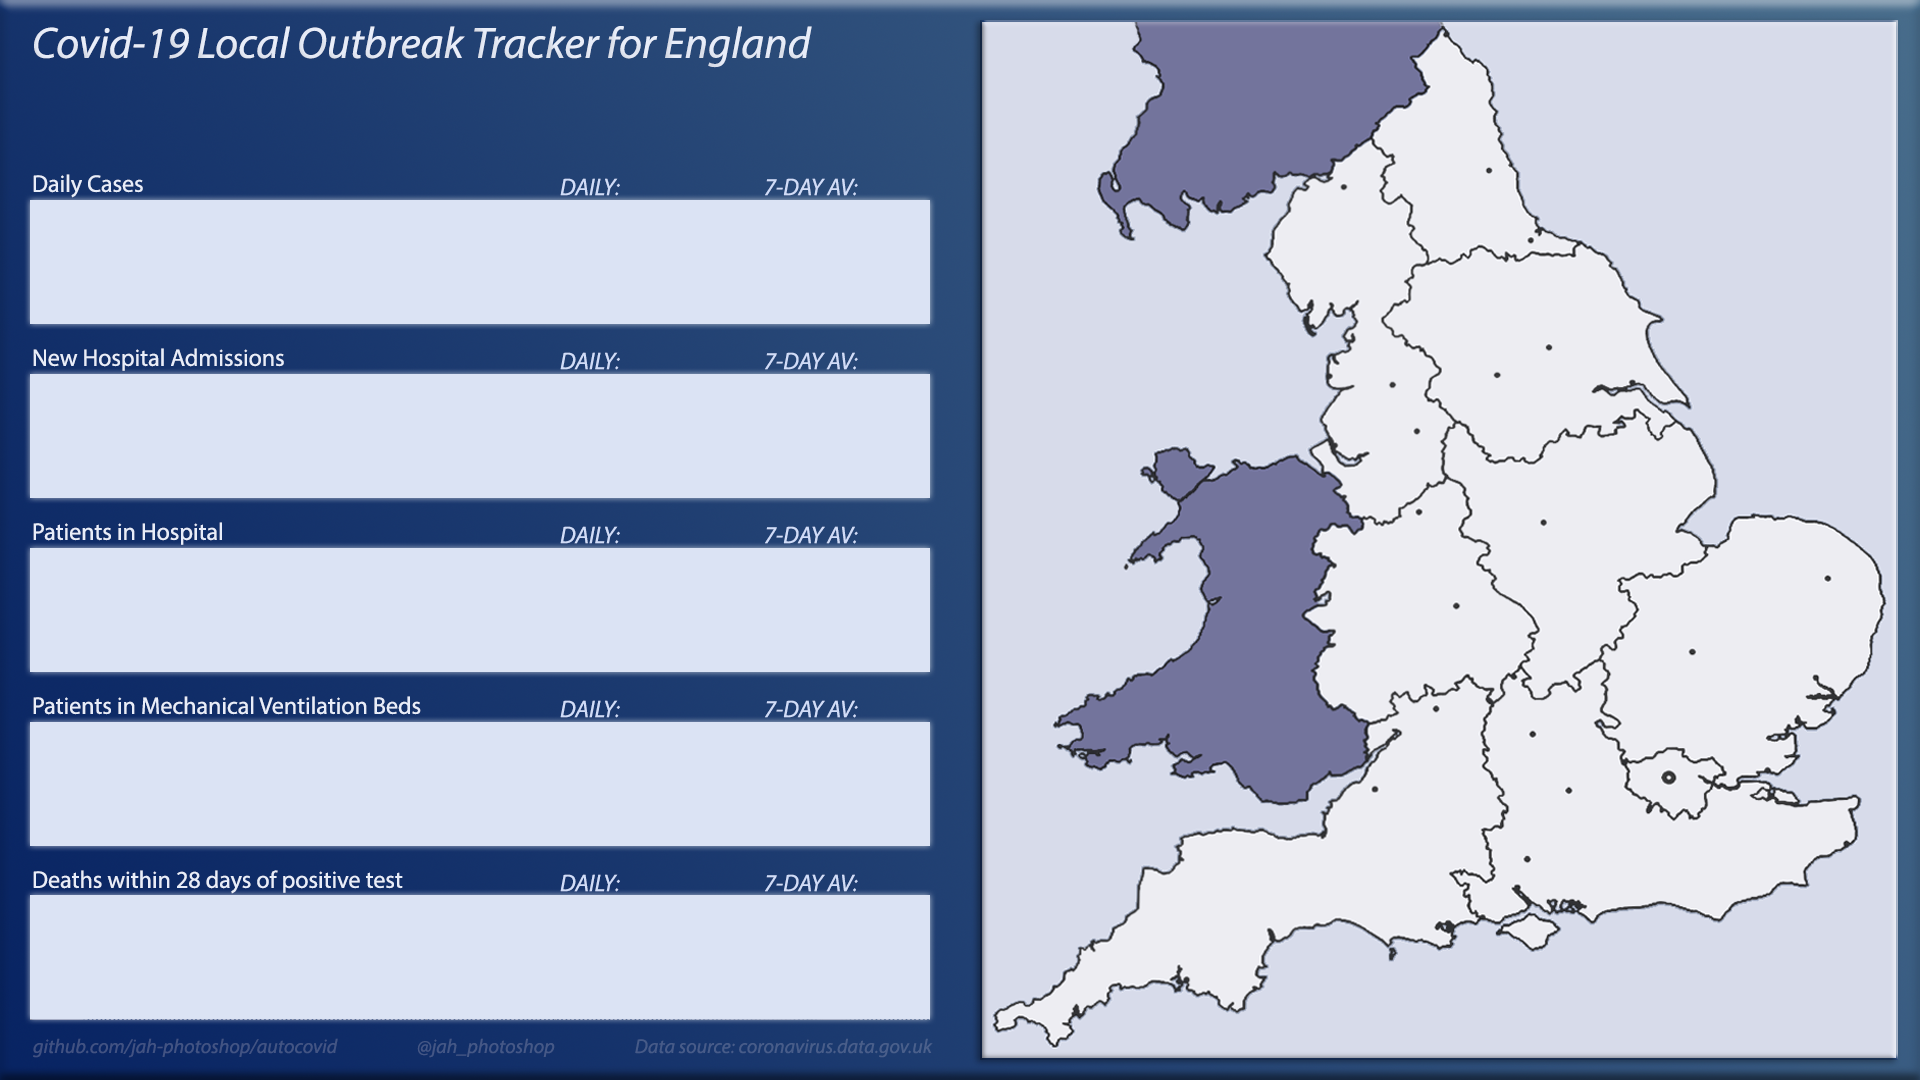
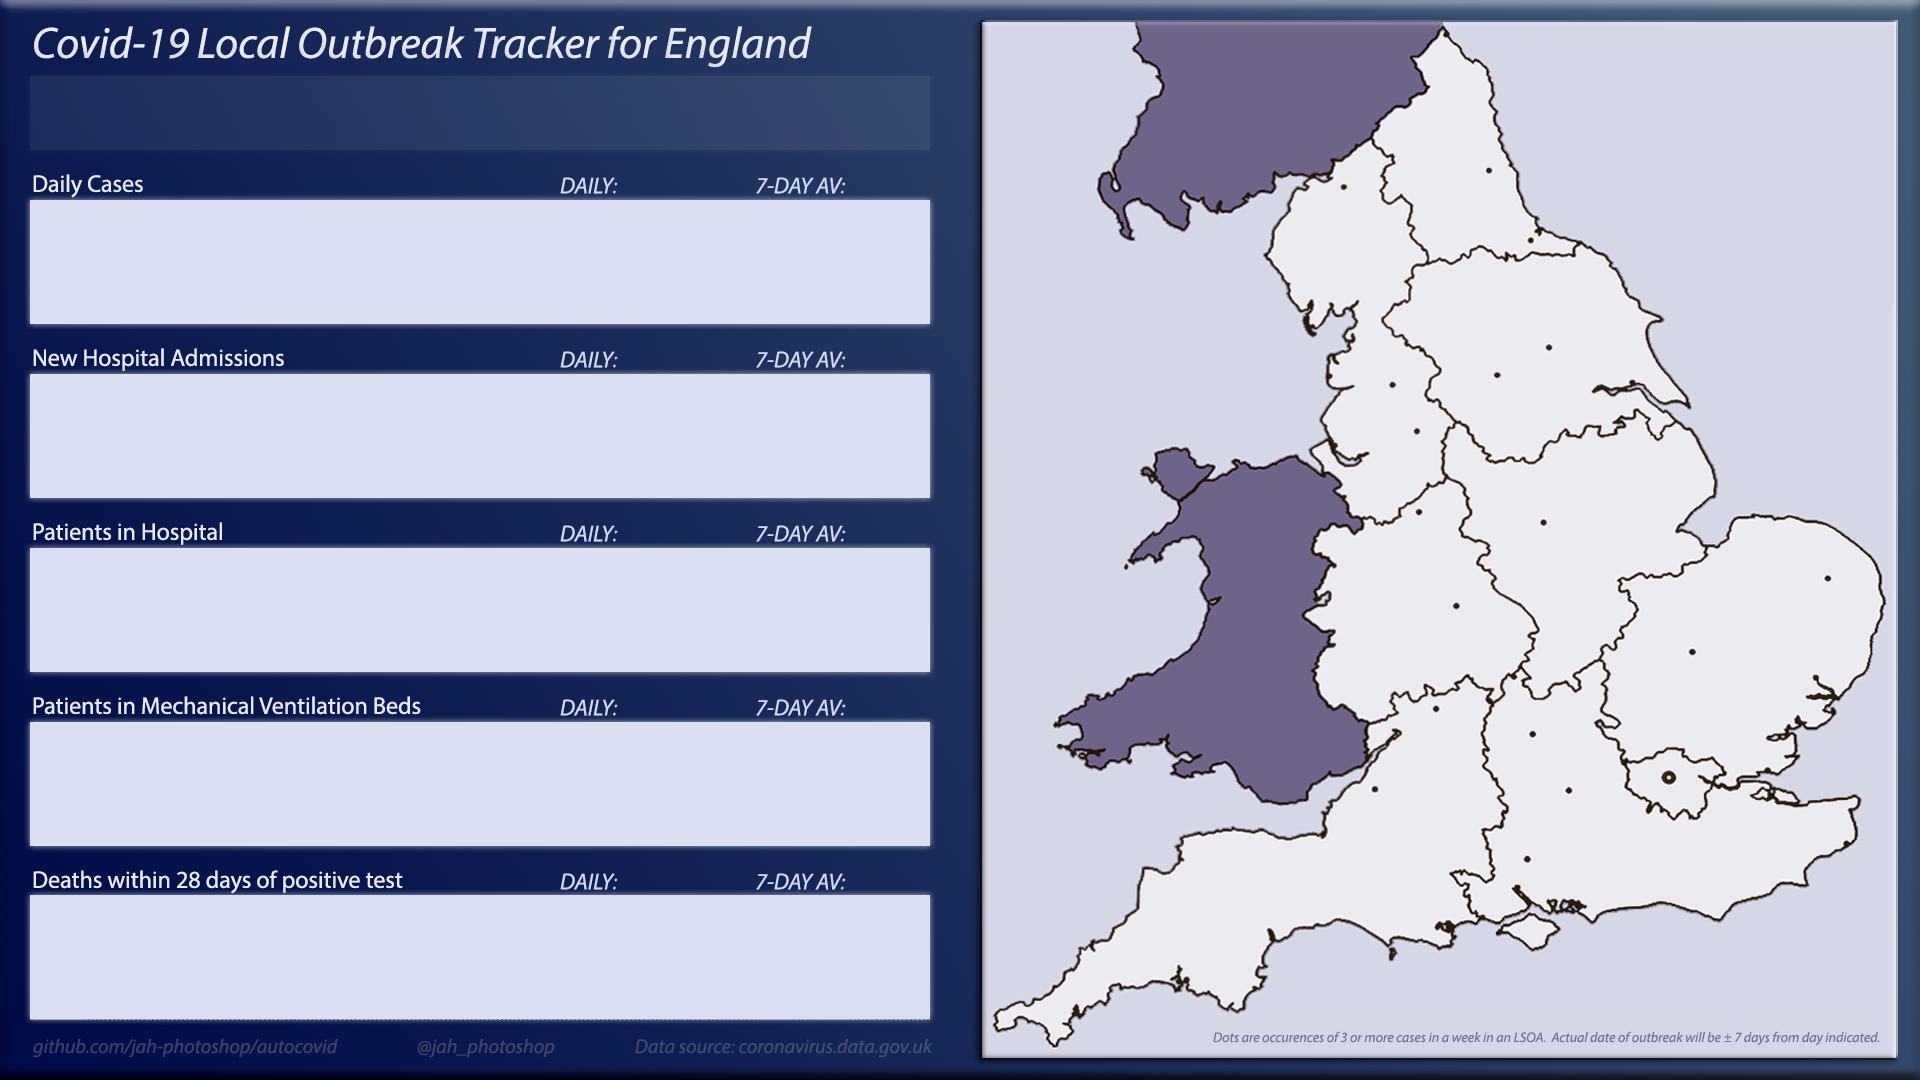
Added localplot, regional data

diff --git a/data_plot.py b/data_plot.py
@@ -39,6 +39,7 @@ print("")
 
 #Some parameters that may want to be tweaked...
 debug = False            # Set to True to print extended debug information whilst processing
+plot_region_stats = True # Set to True to include regional statistics legend on map
 
 surpress_days = timedelta(days=3)
 plt.rcParams.update({'font.size': 26})
@@ -74,12 +75,13 @@ def annotate_picture(filename,list_of_annotations):
     annotate_string = "convert %s -gravity SouthEast -pointsize 23 " % filename
     for annotation in list_of_annotations:
         cs = "'#EEEE'"
-        if(annotation[5]): cs = "'#CCCC'"
+        if(annotation[5]): cs = "'#DDDD'"
+        if(annotation[6]): cs = "'#888C'"
         if(annotation[3]):  #Right justified for numerical entries
-            sub_string =  " -gravity SouthEast -pointsize %d -stroke '#000C' -strokewidth 2 -annotate +%d+%d '%s' " % (annotation[4],annotation[0],annotation[1],annotation[2])
+            sub_string =  " -gravity SouthEast -font FreeMono-Bold -pointsize %d -stroke '#222C' -strokewidth 1 -annotate +%d+%d '%s' " % (annotation[4],annotation[0],annotation[1],annotation[2])
             sub_string += "-stroke none -fill %s -annotate +%d+%d '%s' " % (cs,annotation[0],annotation[1],annotation[2])
         else:
-            sub_string =  " -gravity SouthWest -pointsize %d -stroke '#000C' -strokewidth 2 -annotate +%d+%d '%s' " % (annotation[4],annotation[0],annotation[1],annotation[2])
+            sub_string =  " -gravity SouthWest -font Lato-Bold -pointsize %d -stroke '#000C' -strokewidth 2 -annotate +%d+%d '%s' " % (annotation[4],annotation[0],annotation[1],annotation[2])
             sub_string += "-stroke none -fill %s -annotate +%d+%d '%s' " % (cs,annotation[0],annotation[1],annotation[2])           
         annotate_string += sub_string
     annotate_string += filename
@@ -135,7 +137,9 @@ shade_regions_r     = input("Shade regions by case rate [default: yes]      : ")
 shade_regions = False
 if shade_regions_r.startswith('y'): shade_regions = True
 
+
 regions = ['northwest','northeast','yorkshire','westmidlands','eastmidlands','east','southwest','southeast','london']
+#regions_format = ['North West','North East','Yorkshire and Humberi','West Midlands','East Midlands','East of England','South West','South East','London']
 region_rates = []
 region_dates = []
 if(shade_regions):
@@ -151,7 +155,7 @@ if(shade_regions):
         region_rates.append(region_rate)
         print ("%s: Max: %f" % (region,max(region_rate)))
     
-start_date_str   =      input("Start date for output [default: 2020-03-01]    : ") or "2020-03-01"
+start_date_str   =      input("Start date for output [default: 2020-03-04]    : ") or "2020-03-04"
 start_date = datetime.strptime(start_date_str,"%Y-%m-%d")
 if not os.path.isfile(background_filename): fail("Background image file not found (%s)" % (background_filename))
 
@@ -221,7 +225,7 @@ for day in range(no_days):
                 post_cases.append(cases[count])
                 post_dates.append(entry)
                 post_avs.append(avs[count])
-        plt.axis([start_date-timedelta(hours=36),end_date-surpress_days-timedelta(hours=12),0,c_max*1.02])
+        plt.axis([start_date-timedelta(hours=36),end_date-surpress_days-timedelta(hours=30),0,c_max*1.02])
         ax=plt.gca()
         pad_w= -10 - ( len("%d" % c_max) * 14)
         ax.tick_params(axis="y", direction="in", pad=pad_w)
@@ -235,8 +239,8 @@ for day in range(no_days):
         plt.bar(post_dates,post_cases,width=0.6,color=i_bar_col,edgecolor=i_edge_col,linewidth=0.72)
         plt.plot(post_dates,post_avs,color=i_line_col,linewidth=6)
         plt.axvline(x=c_day-timedelta(hours=16), color="#552255", ls=':', lw=3)
-        annotation_list.append([1220,880 - (c_c * 174),"%d" % int(pre_cases[0]),True,23,False])
-        annotation_list.append([990,880 - (c_c * 174),"%d" % int(pre_avs[0]),True,23,False])        
+        annotation_list.append([1220,882 - (c_c * 174),"%d" % int(pre_cases[0]),True,24,False,False])
+        annotation_list.append([990,882 - (c_c * 174),"%d" % int(pre_avs[0]),True,24,False,False])        
         ofn = output_path + os.path.sep + "temp" + os.path.sep + chart + ".png"
         ofn_list.append(ofn)
         plt.savefig(ofn, bbox_inches='tight',transparent=True)
@@ -250,14 +254,15 @@ for day in range(no_days):
     for count,figfn in enumerate(ofn_list):
         os.system('composite -geometry +30+%d %s %s %s' % (200 + (count * 174),figfn,frame_name,frame_name))
     print("Annotating images")
-    annotation_list.append([30,940,c_day.strftime("%a %d %b"),False,48,False])
+    x_day = c_day - timedelta(days=1)
+    annotation_list.append([34,940,x_day.strftime("%a %d %b"),False,48,False,False])
     if(annotate_events):
         draw_event = False
         date_string = ""
         e_string = ""
         fade = False
         for count,edate in enumerate(event_dates):
-            date_delta = c_day - edate
+            date_delta = x_day - edate
             if(date_delta.days >= 0 and date_delta.days < 3):
                 if(date_delta.days > 0):
                     fade = True
@@ -265,23 +270,30 @@ for day in range(no_days):
                 date_string = edate.strftime("%d %b")
                 e_string = event_strings[count]
         if(draw_event):
-            annotation_list.append([330,976,date_string,False,18,fade])
-            annotation_list.append([330,940,e_string,False,32,fade])
+            annotation_list.append([340,976,date_string,False,18,fade,False])
+            annotation_list.append([340,940,e_string,False,32,fade,False])
         
     annotate_picture(frame_name,annotation_list)
     if(shade_regions):
         print("Shading regional data")
+        region_annotations = []
+        if(plot_region_stats):
+            os.system('composite -geometry +1668+30 regions/backlayer.png %s %s' % (frame_name,frame_name))
+
         for count,region in enumerate(regions): 
             rate = 0
-            if c_day in region_dates[count]:
-                date_index = region_dates[count].index(c_day)
-#            print("Date index:%d" % (date_index))
-#            print(region_rates[count])
-#            print(len(region_rates[count]))
-#            print(region_dates)
-#            print(len(region_dates))
+            if x_day in region_dates[count]:
+                date_index = region_dates[count].index(x_day)
                 rate = region_rates[count][date_index]
+                if rate is None: rate = 0
+                region_annotations.append([38,982 - (count * 24),"%3.1f" % rate,True,20,False,True])
             if(rate > 100):rate=100
             if(rate < 0): rate = 0
-            region_filename="regions" + os.path.sep + region + ".png"
+            reg_sep = ""
+            if (plot_region_stats): reg_sep = "-e"
+            region_filename="regions" + os.path.sep + region + reg_sep + ".png"
             os.system('composite -dissolve %f -geometry +985+26 %s %s %s' % (rate,region_filename,frame_name,frame_name))
+        if(plot_region_stats):
+            os.system('composite -geometry +1668+30 regions/overlay.png %s %s' % (frame_name,frame_name))
+            print("Annotating regional data")
+            annotate_picture(frame_name,region_annotations)

diff --git a/localplot.py b/localplot.py
@@ -1,0 +1,135 @@
+#!/usr/bin/env python3
+# -*- coding: utf-8 -*-
+"""
+Heirarchical plot for local Covid data - England
+
+Created on Sun Oct  4 14:16:24 2020
+
+@author: jah-photoshop
+"""
+
+print("Covid Local Data Plotter - version 1.0   -   @jah-photoshop Oct 2020")
+print("")
+
+import os,csv, numpy as np,geopandas as gpd,pandas as pd,matplotlib.pyplot as plt, random
+from datetime import datetime, timedelta
+
+debug = False
+data_path = "data"
+map_filename = "zip://" + data_path + os.path.sep + "Middle_Layer_Super_Output_Areas__December_2011__Boundaries_EW_BSC-shp.zip"
+msoa_filename = data_path + os.path.sep + "MSOAs_latest.csv"
+cases_filename = data_path + os.path.sep + "coronavirus-cases_latest.csv"
+
+plt.rcParams['axes.facecolor']='#121240'
+
+#Yorkshire
+frame_margins = [340000,550000,410000,520000]
+plot_wales=False
+label_x=525000
+label_y=510000
+l_width=1.2
+
+#England
+frame_margins = [133000,658000,10600,655000]
+plot_wales=True
+label_x=550000
+label_y=576000
+l_width=0.6
+
+#Load map data for England [and Wales] from shape file
+print("Loading map data from " + map_filename)
+england=gpd.read_file(map_filename,rows=6791)
+wales=gpd.read_file(map_filename,rows=slice(6792,7199))
+msoa_names = england.MSOA11CD.to_list()
+
+#Load MSOA weekly case data from CSV file
+print("Loading MSOA data from " + msoa_filename)
+with open(msoa_filename) as csv_file: msoa_data = [row for row in csv.reader(csv_file, delimiter=',')][1:-1]
+
+#Load daily case data from CSV file
+print("Loading cases data from " + cases_filename)
+with open(cases_filename) as csv_file: cases_data = [row for row in csv.reader(csv_file, delimiter=',')][1:-1]
+area_codes=list(set([entry[1] for entry in cases_data]))
+start_date = datetime(2020, 1, 30)
+end_date = datetime.strptime(cases_data[0][3],"%Y-%m-%d")
+number_of_days=(end_date-start_date).days + 1
+area_codes_index = [e[1] for e in cases_data]
+area_rates=[]
+
+#Calculate the case rate, for each day, for each area
+print("Calculating area data")
+for area_code in area_codes:
+    area_cases = [0] * number_of_days
+    start_index = area_codes_index.index(area_code)
+    area_pop = float(cases_data[start_index][5]) / float(cases_data[start_index][6])
+    local_data = [[(datetime.strptime(entry[3],"%Y-%m-%d")-start_date).days,int(entry[4])] for entry in cases_data  if entry[1]==area_code ]
+    for line in local_data: area_cases[line[0]]=line[1]  
+    area_rate = [( sum(area_cases[max(0,i-6):i+1]) / area_pop) for i in range(number_of_days)]
+    if(debug):print("Area %s  Pop %f  Max rate %f" % (area_code,area_pop,max(area_rate)))
+    area_rates.append(area_rate)
+print("Cross-referencing area data")
+ltla_names = [msoa_data[i][4] for i in range(len(msoa_names))]
+ltla_indices = []
+for name in ltla_names:
+    if name in area_codes_index:
+        ltla_indices.append(area_codes.index(name))
+    else: 
+        print("Missing LTLA: %s" % name)
+        ltla_indices.append(-1)
+        
+print("Building msoa history data")
+number_of_weeks = int(number_of_days / 7)
+day_offsets = [[random.randint(0,6) for i in range(number_of_weeks + 1)] for entry in msoa_data]
+hist_msoa_data = []
+for count,entry in enumerate(msoa_data):
+    adj_msoa = []      
+    for day in range(number_of_days):
+        day_rate = 0
+        if (day > 0): day_rate += adj_msoa[day-1]
+        day_rate *= 0.8
+        week = int(day / 7)
+        if(day % 7 == day_offsets[count][week]): day_rate += ( 0 if int(msoa_data[count][week+8]) < 0 else int(msoa_data[count][week + 8]) )
+        if(day_rate < 0.5): day_rate = 0
+        adj_msoa.append(day_rate)
+    hist_msoa_data.append(adj_msoa)
+
+print("Building map data")
+for day in range(number_of_days):
+    week=int(day / 7)
+    c_date = start_date + timedelta(days=day)
+    msoa_series = pd.Series([np.nan if int(row[week+8]) < 0 else int(row[week + 8]) for row in msoa_data])
+    msoa_series_title = c_date.strftime('msoa_%m%d')
+    england[msoa_series_title]=msoa_series
+    ltla_series = pd.Series([np.nan if el < 0 else area_rates[el][day] for el in ltla_indices]) 
+    ltla_series_title = c_date.strftime('ltla_%m%d')
+    england[ltla_series_title]=ltla_series
+    hist_ltla_series = pd.Series([el[day] for el in hist_msoa_data])
+    comb_series = (ltla_series + (6 * hist_ltla_series))**(1/2)
+    comb_series_title = c_date.strftime('comb_%m%d')
+    england[comb_series_title]=comb_series
+
+print("Producing plots")
+def_days = 40  #Plot since 10th March
+def_days = 180 #Plot since start of August
+def_days = 30
+for day in range(def_days,number_of_days):
+    c_date = start_date + timedelta(days=day)
+    f_string = c_date.strftime("%Y%m%d.png")
+    print("Creating file %s" % (f_string))
+    fig,ax = plt.subplots(figsize=(36,36),frameon=False)
+    ax.set_aspect('equal')
+    ax.axis(frame_margins)
+    plt.text(label_x,label_y,c_date.strftime("%B %d"), horizontalalignment='center', style='italic',fontsize=60)
+    plt.axis('off')
+    #plt.text(550000,576000,c_date.strftime("%B %d"), horizontalalignment='center', style='italic',fontsize=48)
+    if(plot_wales):wales.plot(ax=ax,zorder=1,color='#DDDDDD')
+    #england.boundary.plot(ax=ax,zorder=2,linewidth=0.3,color='#888888')
+    england.boundary.plot(ax=ax,zorder=2,linewidth=l_width,color='#888888')
+    #england.plot(column=c_date.strftime('ltla_%m%d'),ax=ax,cmap='OrRd',vmin=0,vmax=200,zorder=3)
+    #england.plot(column=c_date.strftime('msoa_%m%d'),ax=ax,cmap='autumn',vmin=3,vmax=30,zorder=4)
+    england.plot(column=c_date.strftime('comb_%m%d'),ax=ax,cmap='YlOrRd',vmin=0,vmax=16,zorder=4)
+    plt.savefig(f_string, bbox_inches='tight')
+    os.system('convert %s -resize 1080x1324\! %s' % (f_string,f_string))        
+    os.system('composite %s heatmap.png %s' % (f_string,f_string))
+    fig.clf()    
+
